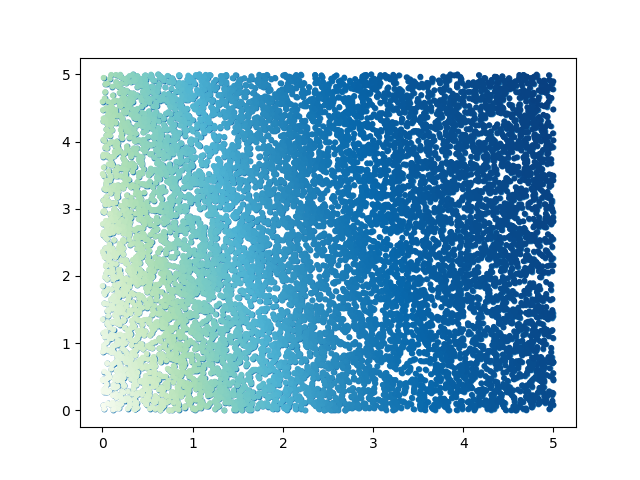
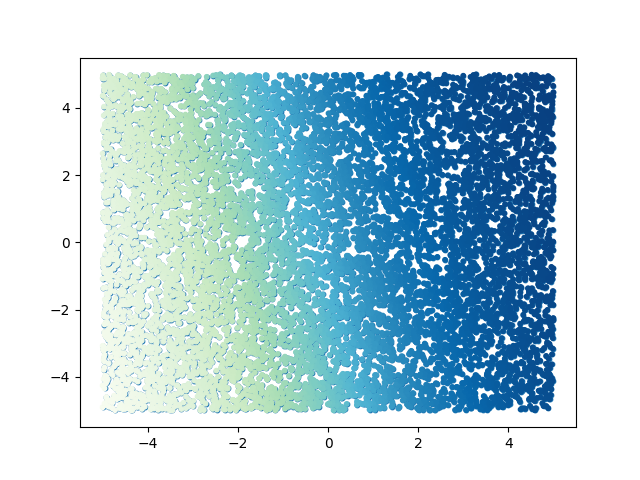
c

diff --git a/perceptron.py b/perceptron.py
@@ -8,8 +8,8 @@ tanh = 	lambda x: np.tanh(x) #Funcion tangente  con hiperbolica
 relu = 	lambda x: np.maximum(0, x)
 
 def random_points(n = 100): #Conjunto de datos y predicciones del perceptron
-	x = np.random.uniform(0.0, 10.0, n) #Datos aleatorios
-	y = np.random.uniform(0.0, 10.0, n)
+	x = np.random.uniform(-5.0, 5.0, n) #Datos aleatorios
+	y = np.random.uniform(-5.0, 5.0, n)
 
 	return np.array([x, y]).T #retorna vector columna
 
@@ -76,11 +76,8 @@ def main():
 		])
 
 	x_x = [var_1,var_2]
-	print(x)
 	print(x_x)
-	print(y)
-
-
+	
 	p_and = Perceptron(2, sigmoid) # 2 entradas funcion de activacion y numero de inputs
 	yp = p_and.predict(points)
 	plt.scatter(points[:,0], points[:,1], s = 10, c=yp, cmap='GnBu') #mapa de colores de green a blue
